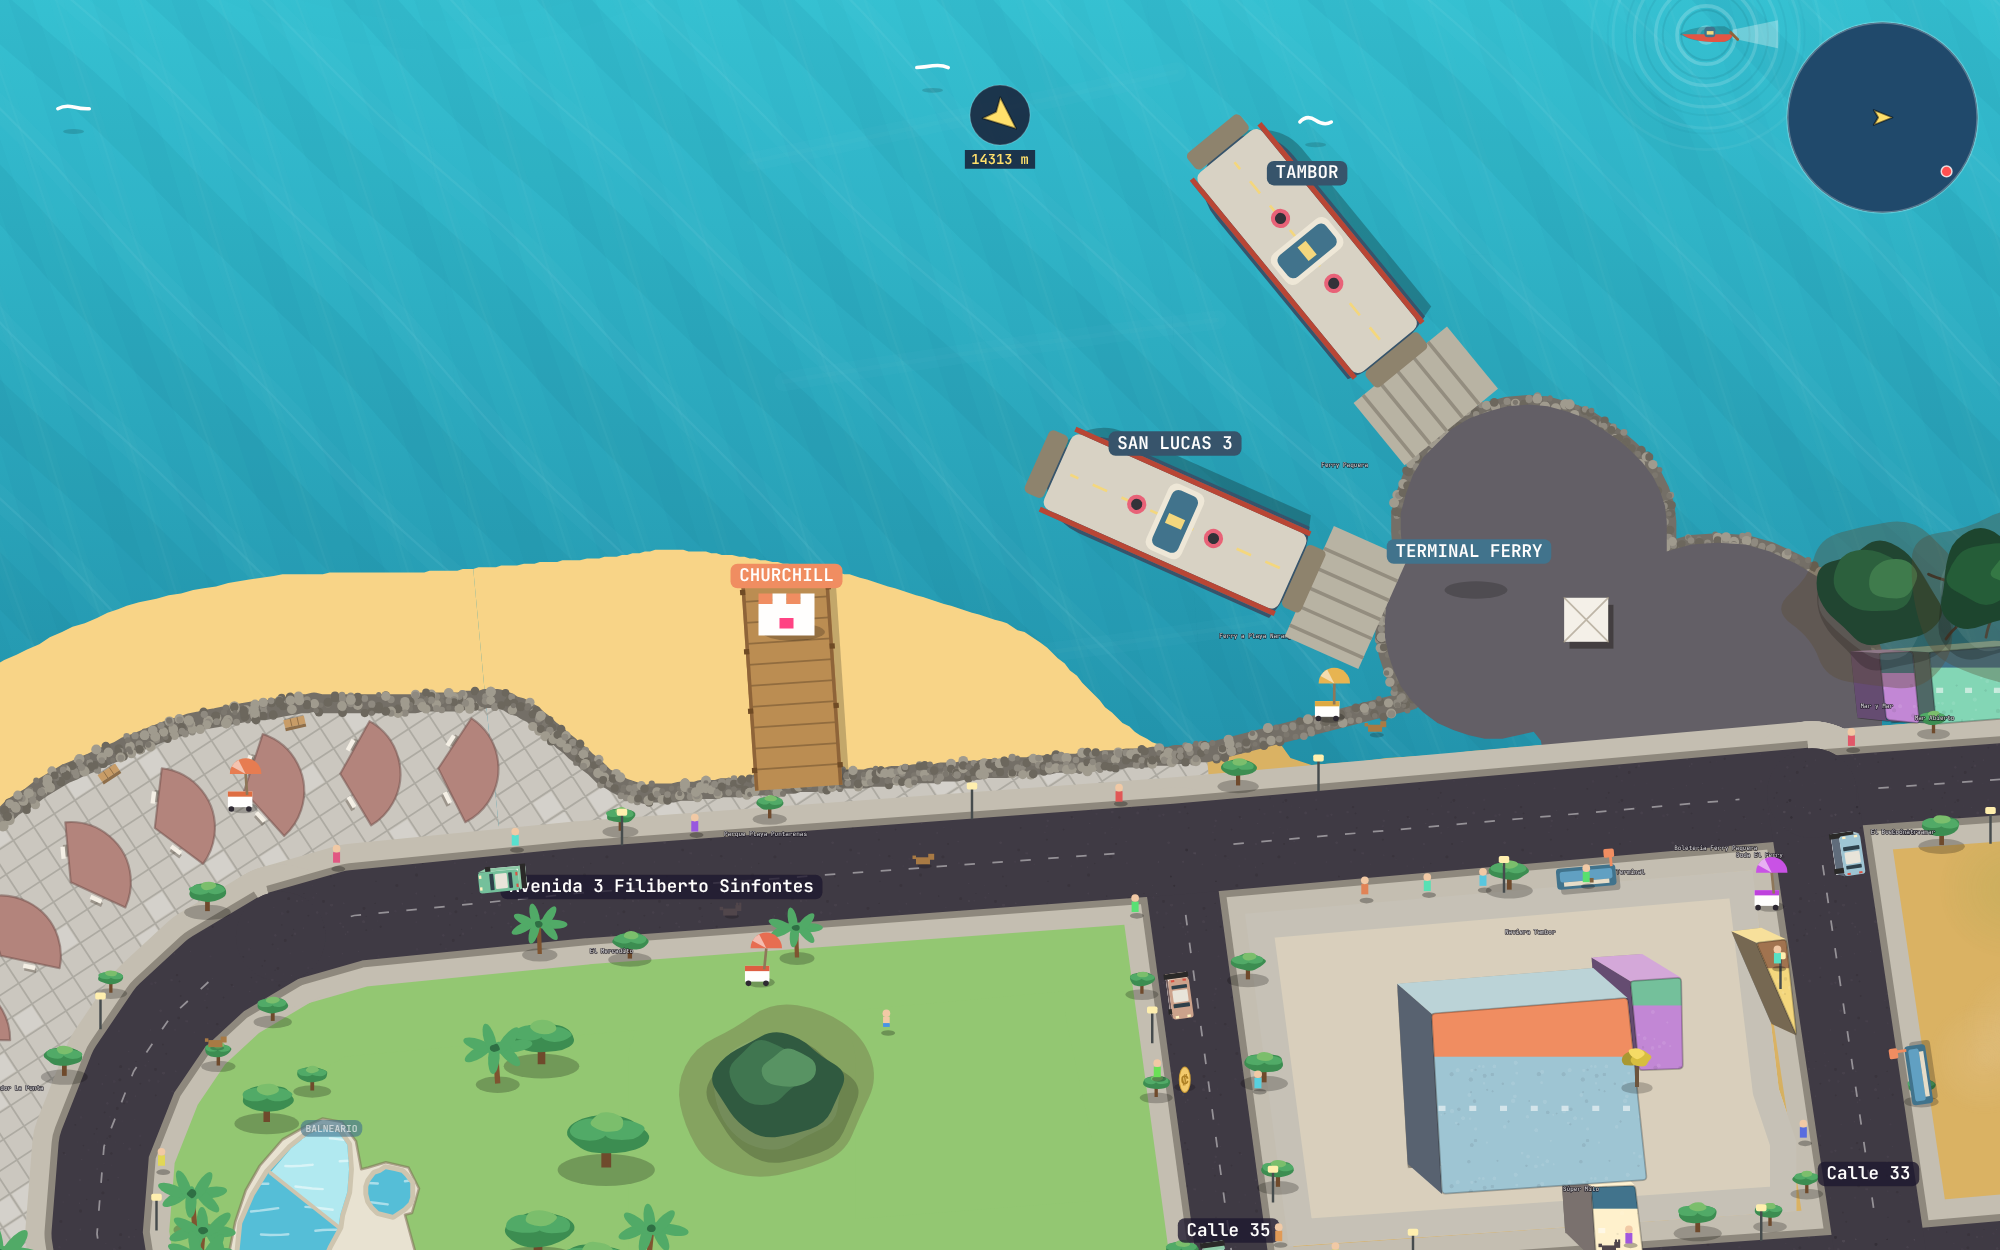
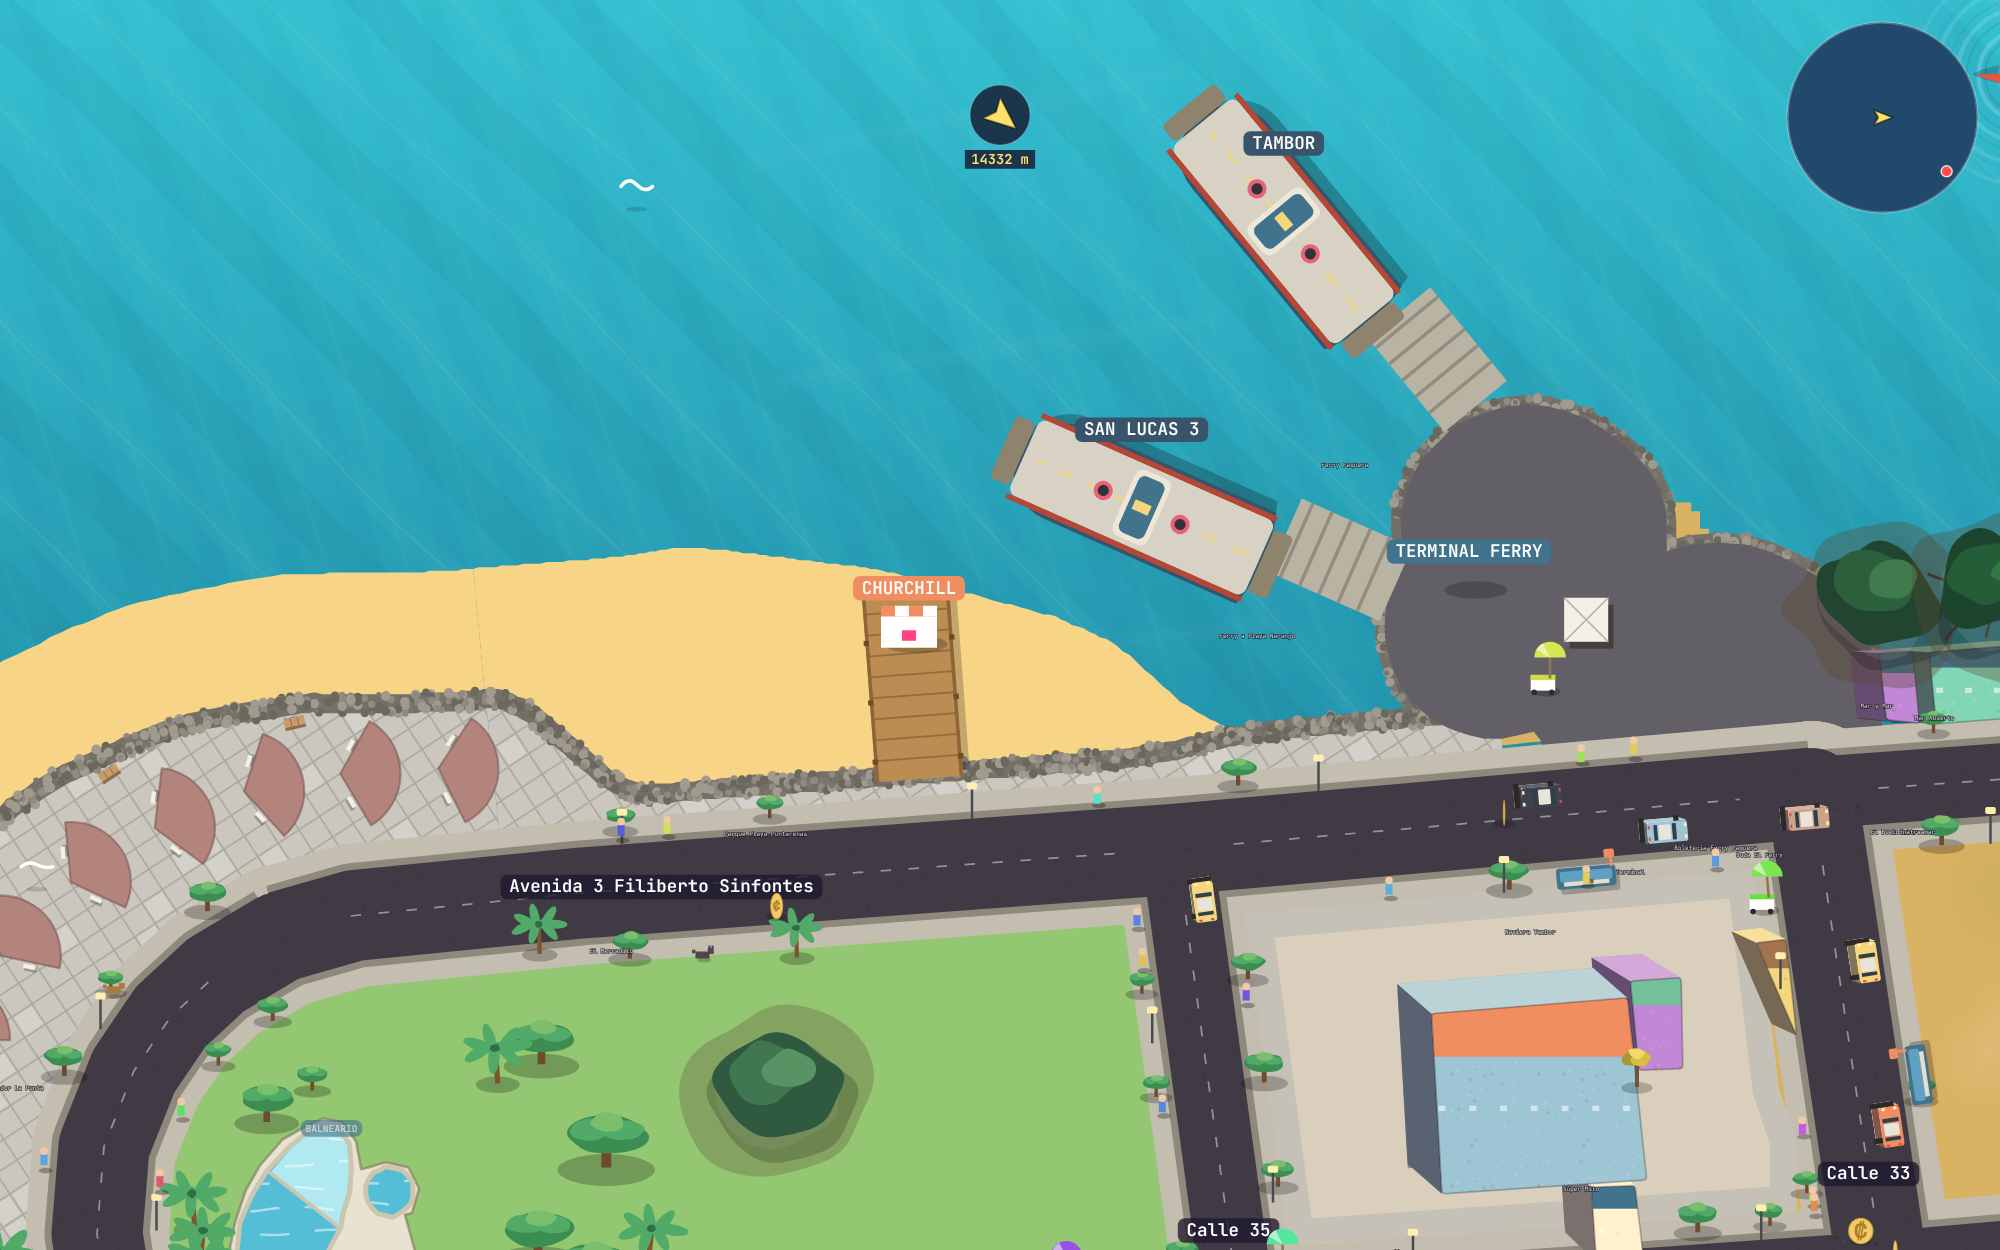
feat(world): rampas de ferry a lo largo de su calle y el norte de la explanada sin huecos hasta la terminal
La plataforma gris del atracadero se gira 90° para que su largo vaya a lo
largo de la calle: el mundo le da su propia pose (ferry.berthPose, que
structures.js → drawBerth respeta y ferries.js copia), y el ferry atraca
después de su punta. El tramo norte corre hasta debajo del patio: la
acera se ensancha a 7 m donde la playa ya se cerró, el patio llega hasta
debajo de la calle y lo que queda entre playa, patio y calle es mar.

Claude-Session: https://claude.ai/code/session_018GSydhWuDAT4g4GG3QKVY6

diff --git a/src/render/c2d/structures.js b/src/render/c2d/structures.js
@@ -347,6 +347,18 @@ function drawFerry(f, view) {
 // The berth she sails from: a concrete apron at the quay, so an empty berth
 // still reads as a place a ferry belongs rather than a gap in the sea wall.
 function drawBerth(f, view) {
+  // `berthPose` [x, y, ang]: el mundo puede poner la plataforma donde va la rampa
+  // de verdad —a lo largo de su calle— en vez de en el arranque de la ruta
+  if (f.berthPose) {
+    const [px, py, pa] = f.berthPose;
+    if (px + 90 < view.x0 || px - 90 > view.x1 || py + 90 < view.y0 || py - 90 > view.y1) return;
+    ctx.save(); ctx.translate(px, py); ctx.rotate(pa);
+    const B = f.dw / 2;
+    paintStructureParts(ctx, S.berth.parts, { X: (v) => v || 0, Y: (v) => v || 0,
+      vars: { dw: f.dw, negB: -B, apronY: -B - 6, apronH: f.dw + 12 }, color: (spec) => structureColor(S.berth, spec) });
+    ctx.restore();
+    return;
+  }
   const bx = f.pts[0].x, by = f.pts[0].y;
   if (bx + 90 < view.x0 || bx - 90 > view.x1 || by + 90 < view.y0 || by - 90 > view.y1) return;
   ctx.save();

diff --git a/src/game/ferries.js b/src/game/ferries.js
@@ -64,6 +64,7 @@ function build() {
       oneWay: !!f.oneWay, v: f.speed || SPEED,
       s: dock, phase: "docked", wait: 0, used: false, far: false,
       dx: 0, dy: 0, da: 0,
+      berthPose: f.berthPose || null,
     };
   });
 }
